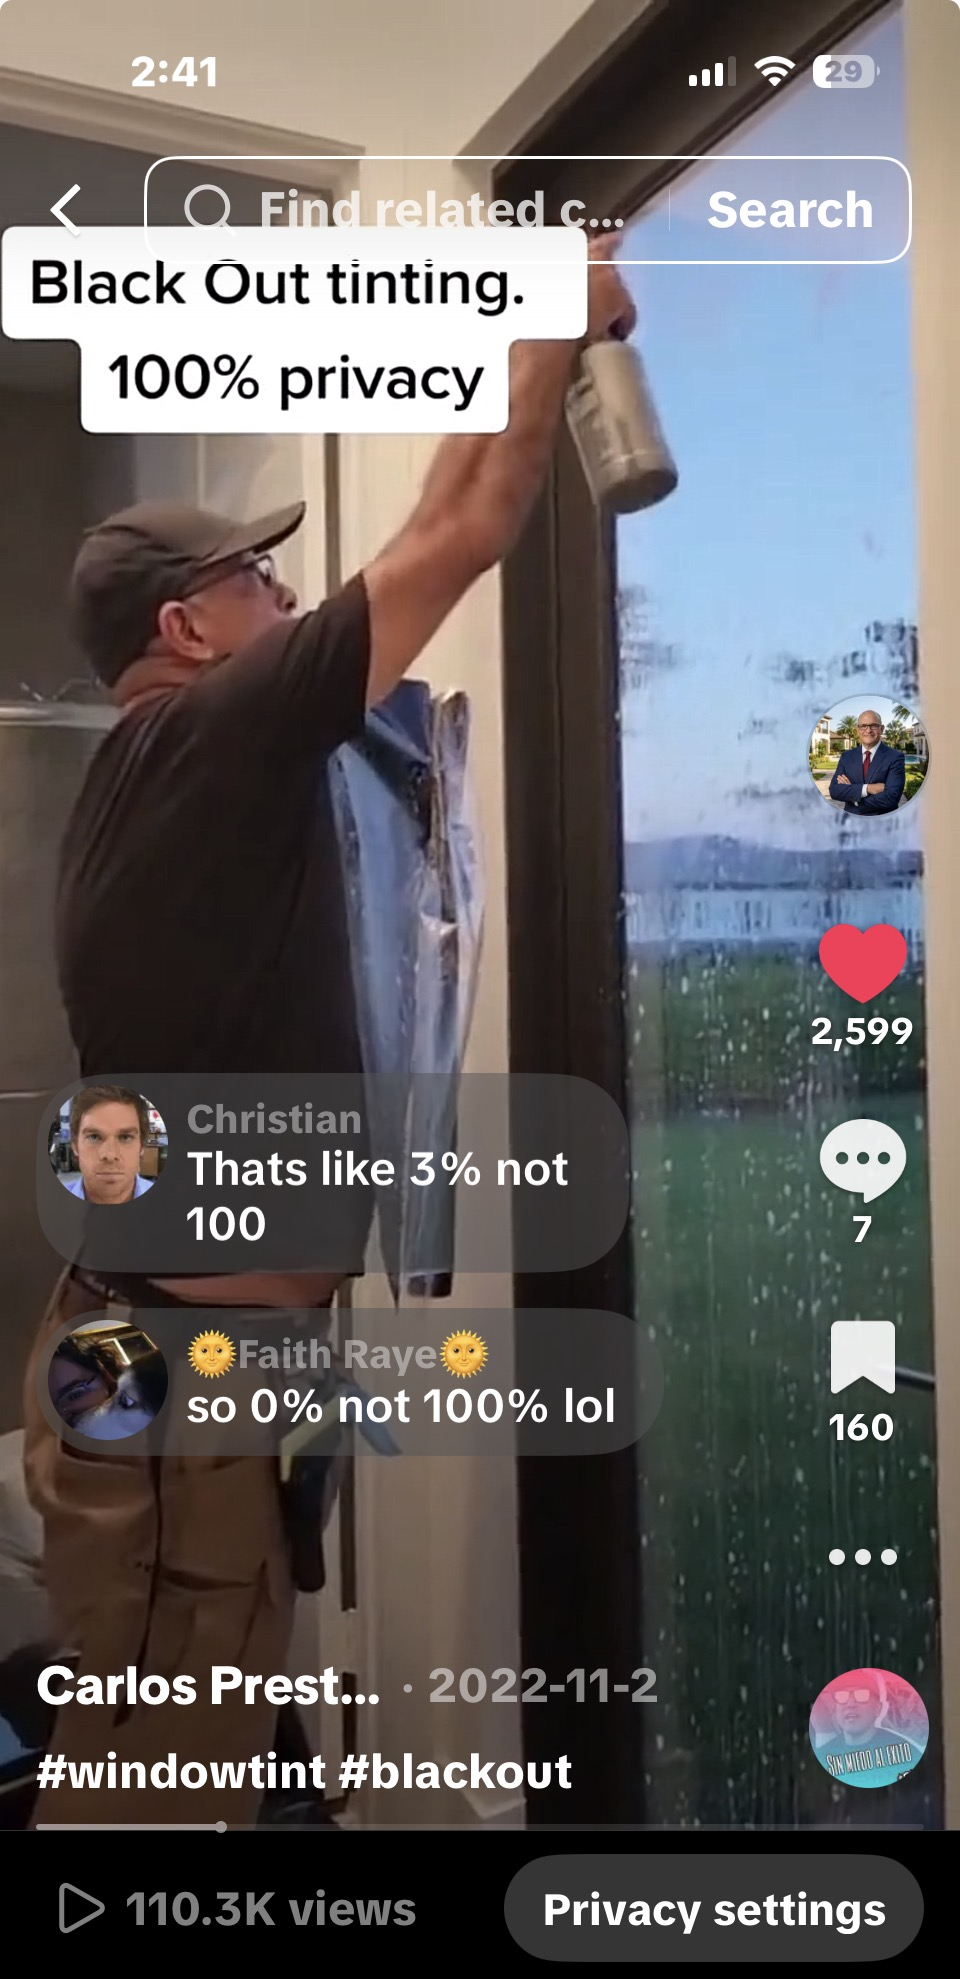
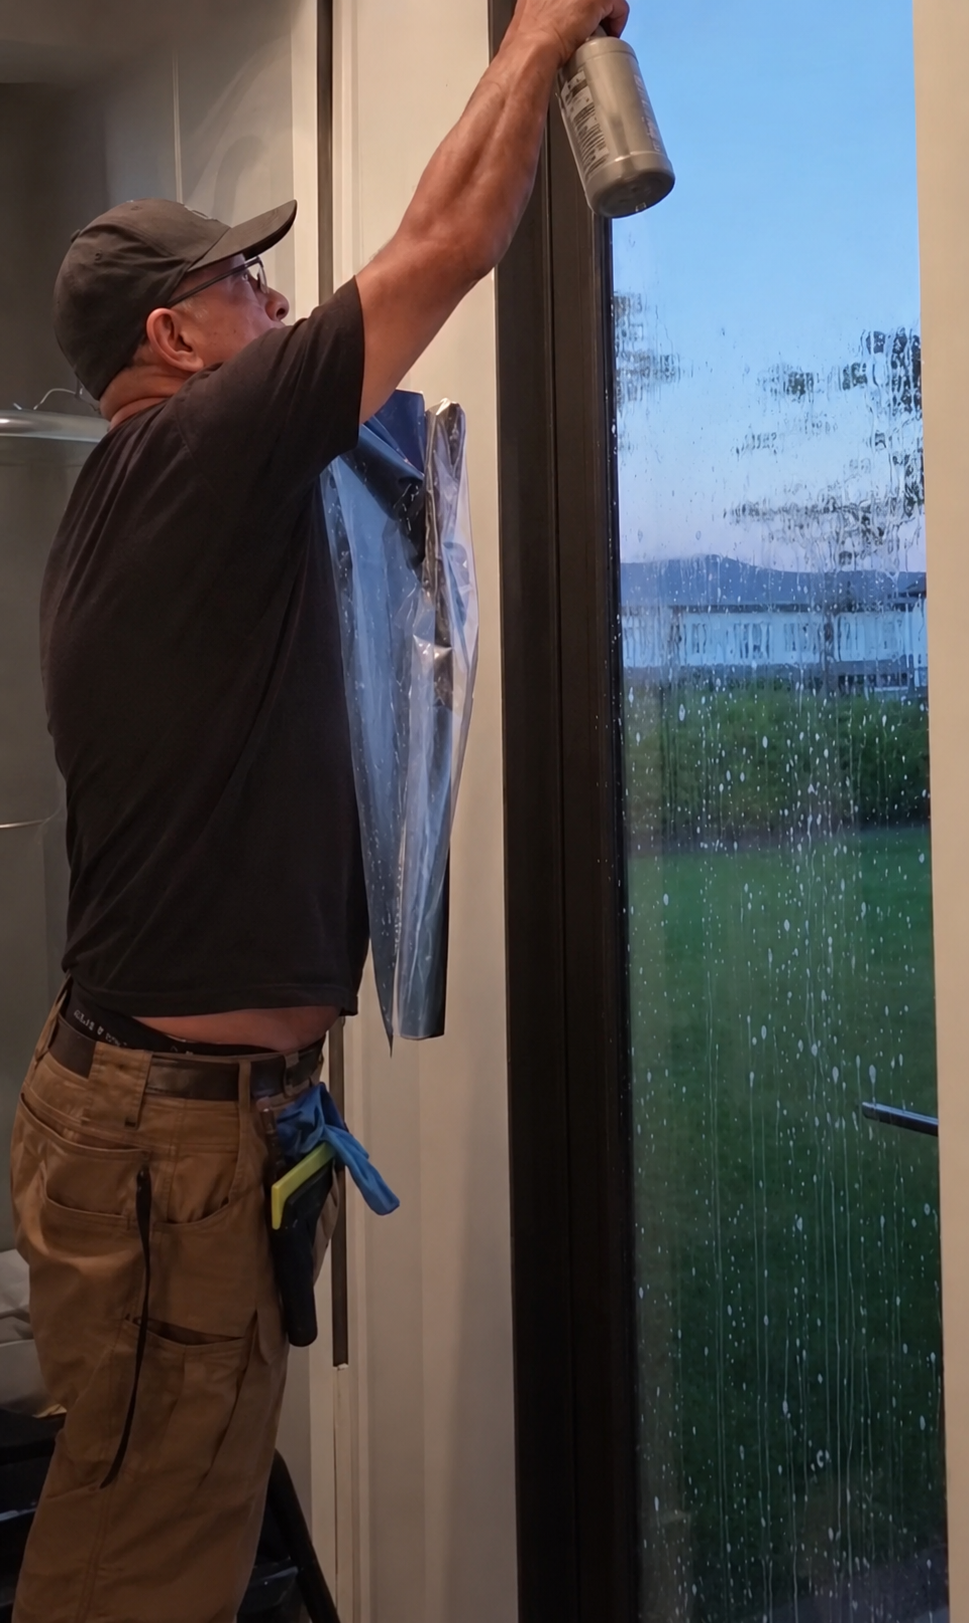
Add files via upload

diff --git a/index.html b/index.html
@@ -436,8 +436,8 @@
       <p class="eyebrow" data-lang="en">Choose your level</p>
       <h2 data-lang="es lang-active">¿Qué tan oscuro lo quieres?</h2>
       <h2 data-lang="en">How dark do you want it?</h2>
-      <p data-lang="es lang-active">Manejamos todos los niveles de tinte más solicitados — desde 70% (apenas visible) hasta 5% (privacidad total). Te ayudamos a elegir el porcentaje legal y adecuado para tu vehículo o propiedad.</p>
-      <p data-lang="en">We work with all the most requested tint levels — from 70% (barely visible) to 5% (full privacy). We'll help you choose the right legal percentage for your vehicle or property.</p>
+      <p data-lang="es lang-active">Manejamos todos los niveles de tinte más solicitados — Te ayudamos a elegir el porcentaje legal y adecuado para tu vehículo o propiedad.</p>
+      <p data-lang="en">We work with all the most requested tint levels — we'll help you choose the right legal percentage for your vehicle or property.</p>
     </div>
     <div class="tint-demo">
       <div class="tint-visual">
@@ -452,8 +452,8 @@
           <span class="tint-level-chip">50%</span>
           <span class="tint-level-chip">70%</span>
         </div>
-        <p class="tint-note" data-lang="es lang-active">Florida permite un mínimo de 28% VLT en ventanas delanteras y cualquier nivel en las traseras y el parabrisas trasero (con espejos laterales). Te asesoramos sin costo antes de instalar.</p>
-        <p class="tint-note" data-lang="en">Florida allows a minimum of 28% VLT on front windows and any level on rear windows and back windshield (with side mirrors). We advise you at no cost before installing.</p>
+        <p class="tint-note" data-lang="es lang-active">Para tus ventanas residenciales o comerciales, contamos con una amplia variedad de niveles de oscuridad y privacidad, además de películas de alto rendimiento que ayudan a reducir el calor y rayos UV.</p>
+        <p class="tint-note" data-lang="en">For your residential or commercial windows, we offer a wide range of darkness and privacy levels, plus high-performance films that help reduce heat and block UV rays.</p>
         <a href="tel:9549092954" class="btn" data-lang="es lang-active">Pide tu asesoría gratis</a>
         <a href="tel:9549092954" class="btn" data-lang="en">Get free advice</a>
       </div>
@@ -471,7 +471,7 @@
         <h2 data-lang="es lang-active">Servicios de tinte para cada superficie</h2>
         <h2 data-lang="en">Tinting services for every surface</h2>
       </div>
-      <p data-lang="es lang-active">Especialistas en automotriz — también atendemos hogares, negocios, botes y yates en toda el área de Fort Lauderdale.</p>
+      <p data-lang="es lang-active">Especialistas en automotriz — también atendemos hogares, negocios, botes y yates.</p>
       <p data-lang="en">Automotive specialists — we also serve homes, businesses, boats and yachts across the Fort Lauderdale area.</p>
     </div>
 
@@ -486,7 +486,7 @@
           <p class="svc-tag" data-lang="en">Automotive</p>
           <h3 data-lang="es lang-active">Autos, camionetas y exóticos</h3>
           <h3 data-lang="en">Cars, trucks &amp; exotics</h3>
-          <p data-lang="es lang-active">Film cerámico de alto rendimiento, acabado impecable, sin burbujas ni rayas.</p>
+          <p data-lang="es lang-active">Film cerámico de alto rendimiento.</p>
           <p data-lang="en">High-performance ceramic film with a flawless, bubble-free finish.</p>
         </div>
       </div>
@@ -531,7 +531,7 @@
           <p class="svc-tag" data-lang="en">Marine</p>
           <h3 data-lang="es lang-active">Botes &amp; Yates</h3>
           <h3 data-lang="en">Boats &amp; Yachts</h3>
-          <p data-lang="es lang-active">Films resistentes a la sal y al sol para cabinas, parabrisas y ventanas de embarcaciones.</p>
+          <p data-lang="es lang-active">Films para cabinas, parabrisas y ventanas de embarcaciones.</p>
           <p data-lang="en">Salt- and sun-resistant films for cabins, windshields, and boat windows.</p>
         </div>
       </div>
@@ -569,11 +569,11 @@
       <p data-lang="es lang-active">Nada de talleres ni citas perdidas manejando por la ciudad. Llegamos con todo el equipo — a tu casa, tu oficina, tu marina — y trabajamos donde tú estés.</p>
       <p data-lang="en">No shop visits, no lost time driving across town. We arrive with the full setup — to your home, office, or marina — and work right where you are.</p>
       <div class="mobile-list">
-        <div class="mobile-list-item" data-lang="es lang-active"><div class="dot"></div><span>Hollywood, Hallandale, Davie, Plantation, Pembroke Pines y Fort Lauderdale</span></div>
-        <div class="mobile-list-item" data-lang="en"><div class="dot"></div><span>Hollywood, Hallandale, Davie, Plantation, Pembroke Pines and Fort Lauderdale</span></div>
+        <div class="mobile-list-item" data-lang="es lang-active"><div class="dot"></div><span>Atendemos Hollywood, Hallandale, Davie, Plantation, Pembroke Pines, Fort Lauderdale y otras áreas con cita previa</span></div>
+        <div class="mobile-list-item" data-lang="en"><div class="dot"></div><span>We serve Hollywood, Hallandale, Davie, Plantation, Pembroke Pines, Fort Lauderdale and other areas by appointment</span></div>
         <div class="mobile-list-item" data-lang="es lang-active"><div class="dot"></div><span>Presupuesto gratis antes de instalar</span></div>
         <div class="mobile-list-item" data-lang="en"><div class="dot"></div><span>Free estimate before installation</span></div>
-        <div class="mobile-list-item" data-lang="es lang-active"><div class="dot"></div><span>Equipo profesional, resultado sin burbujas</span></div>
+        <div class="mobile-list-item" data-lang="es lang-active"><div class="dot"></div><span>Equipo profesional.</span></div>
         <div class="mobile-list-item" data-lang="en"><div class="dot"></div><span>Professional crew, bubble-free finish</span></div>
       </div>
       <a href="tel:9549092954" class="btn" data-lang="es lang-active">Agenda tu servicio</a>
@@ -620,7 +620,6 @@
       <div class="rating-item"><b>4.9 / 5</b><span data-lang="es lang-active">356 reseñas · Google</span><span data-lang="en">356 reviews · Google</span></div>
       <div class="rating-item"><b>5.0 / 5</b><span>HomeAdvisor</span></div>
       <div class="rating-item"><b>4.9 / 5</b><span data-lang="es lang-active">247 reseñas · TintBrokers</span><span data-lang="en">247 reviews · TintBrokers</span></div>
-      <div class="rating-item"><b>Top 1%</b><span data-lang="es lang-active">Quality Business Awards 2026</span><span data-lang="en">Quality Business Awards 2026</span></div>
     </div>
     <a href="https://www.google.com/search?q=Urbano+Window+Tinting+Service+Hollywood+Florida+reviews" target="_blank" class="btn ghost" style="margin-bottom:44px;" data-lang="es lang-active">Ver reseñas en Google</a>
     <a href="https://www.google.com/search?q=Urbano+Window+Tinting+Service+Hollywood+Florida+reviews" target="_blank" class="btn ghost" style="margin-bottom:44px;" data-lang="en">See reviews on Google</a>
@@ -706,4 +705,3 @@
 
 </body>
 </html>
- 